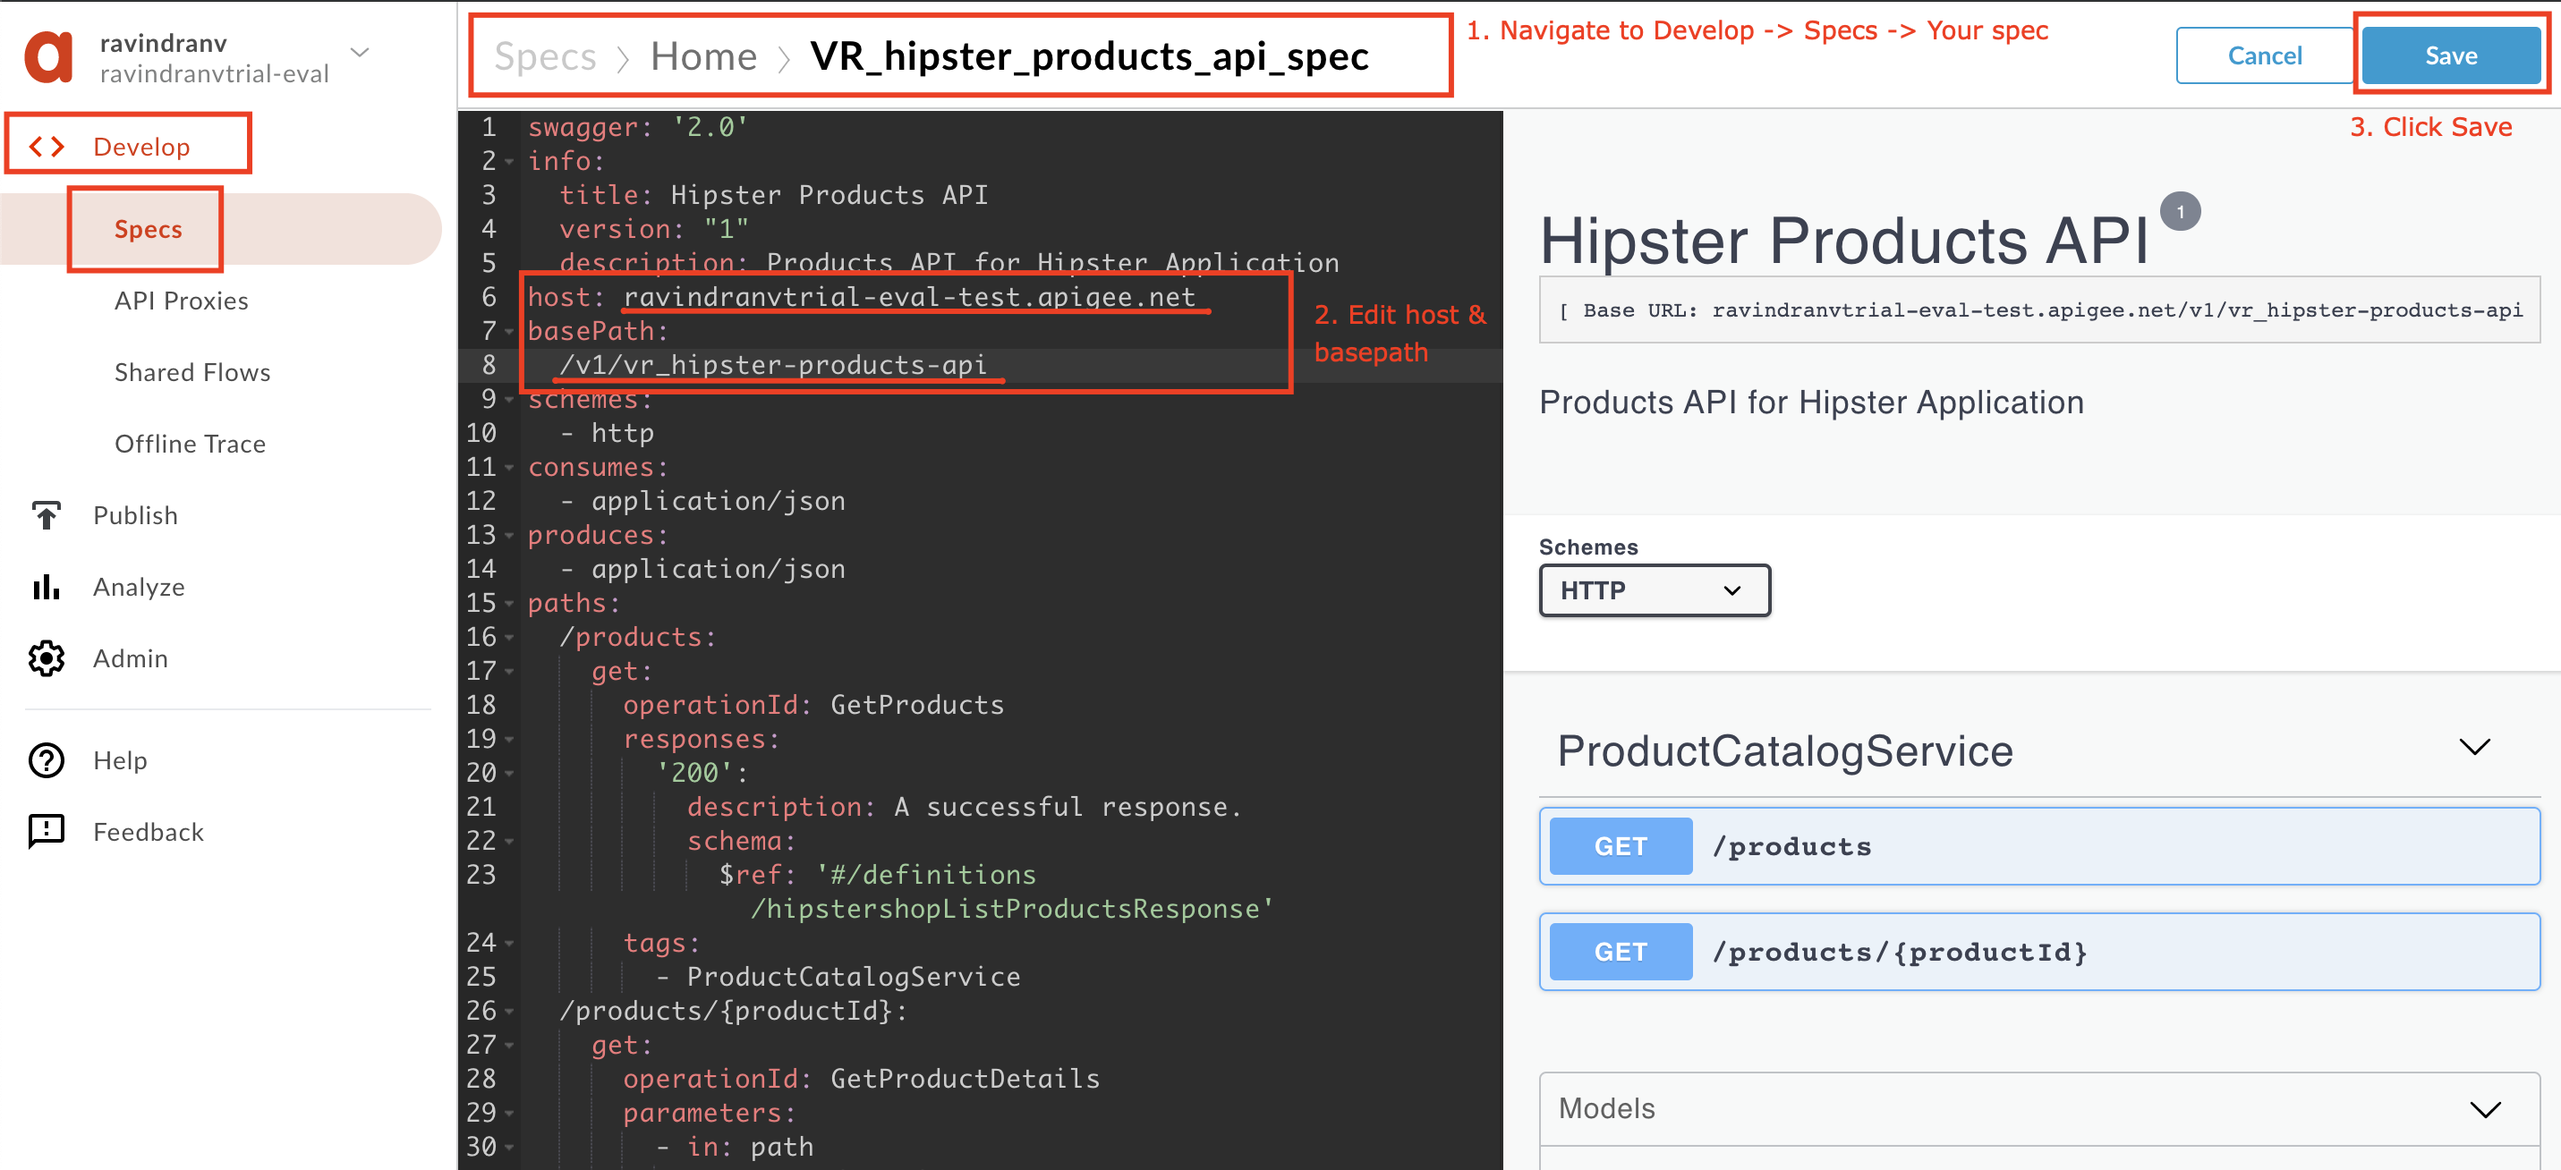
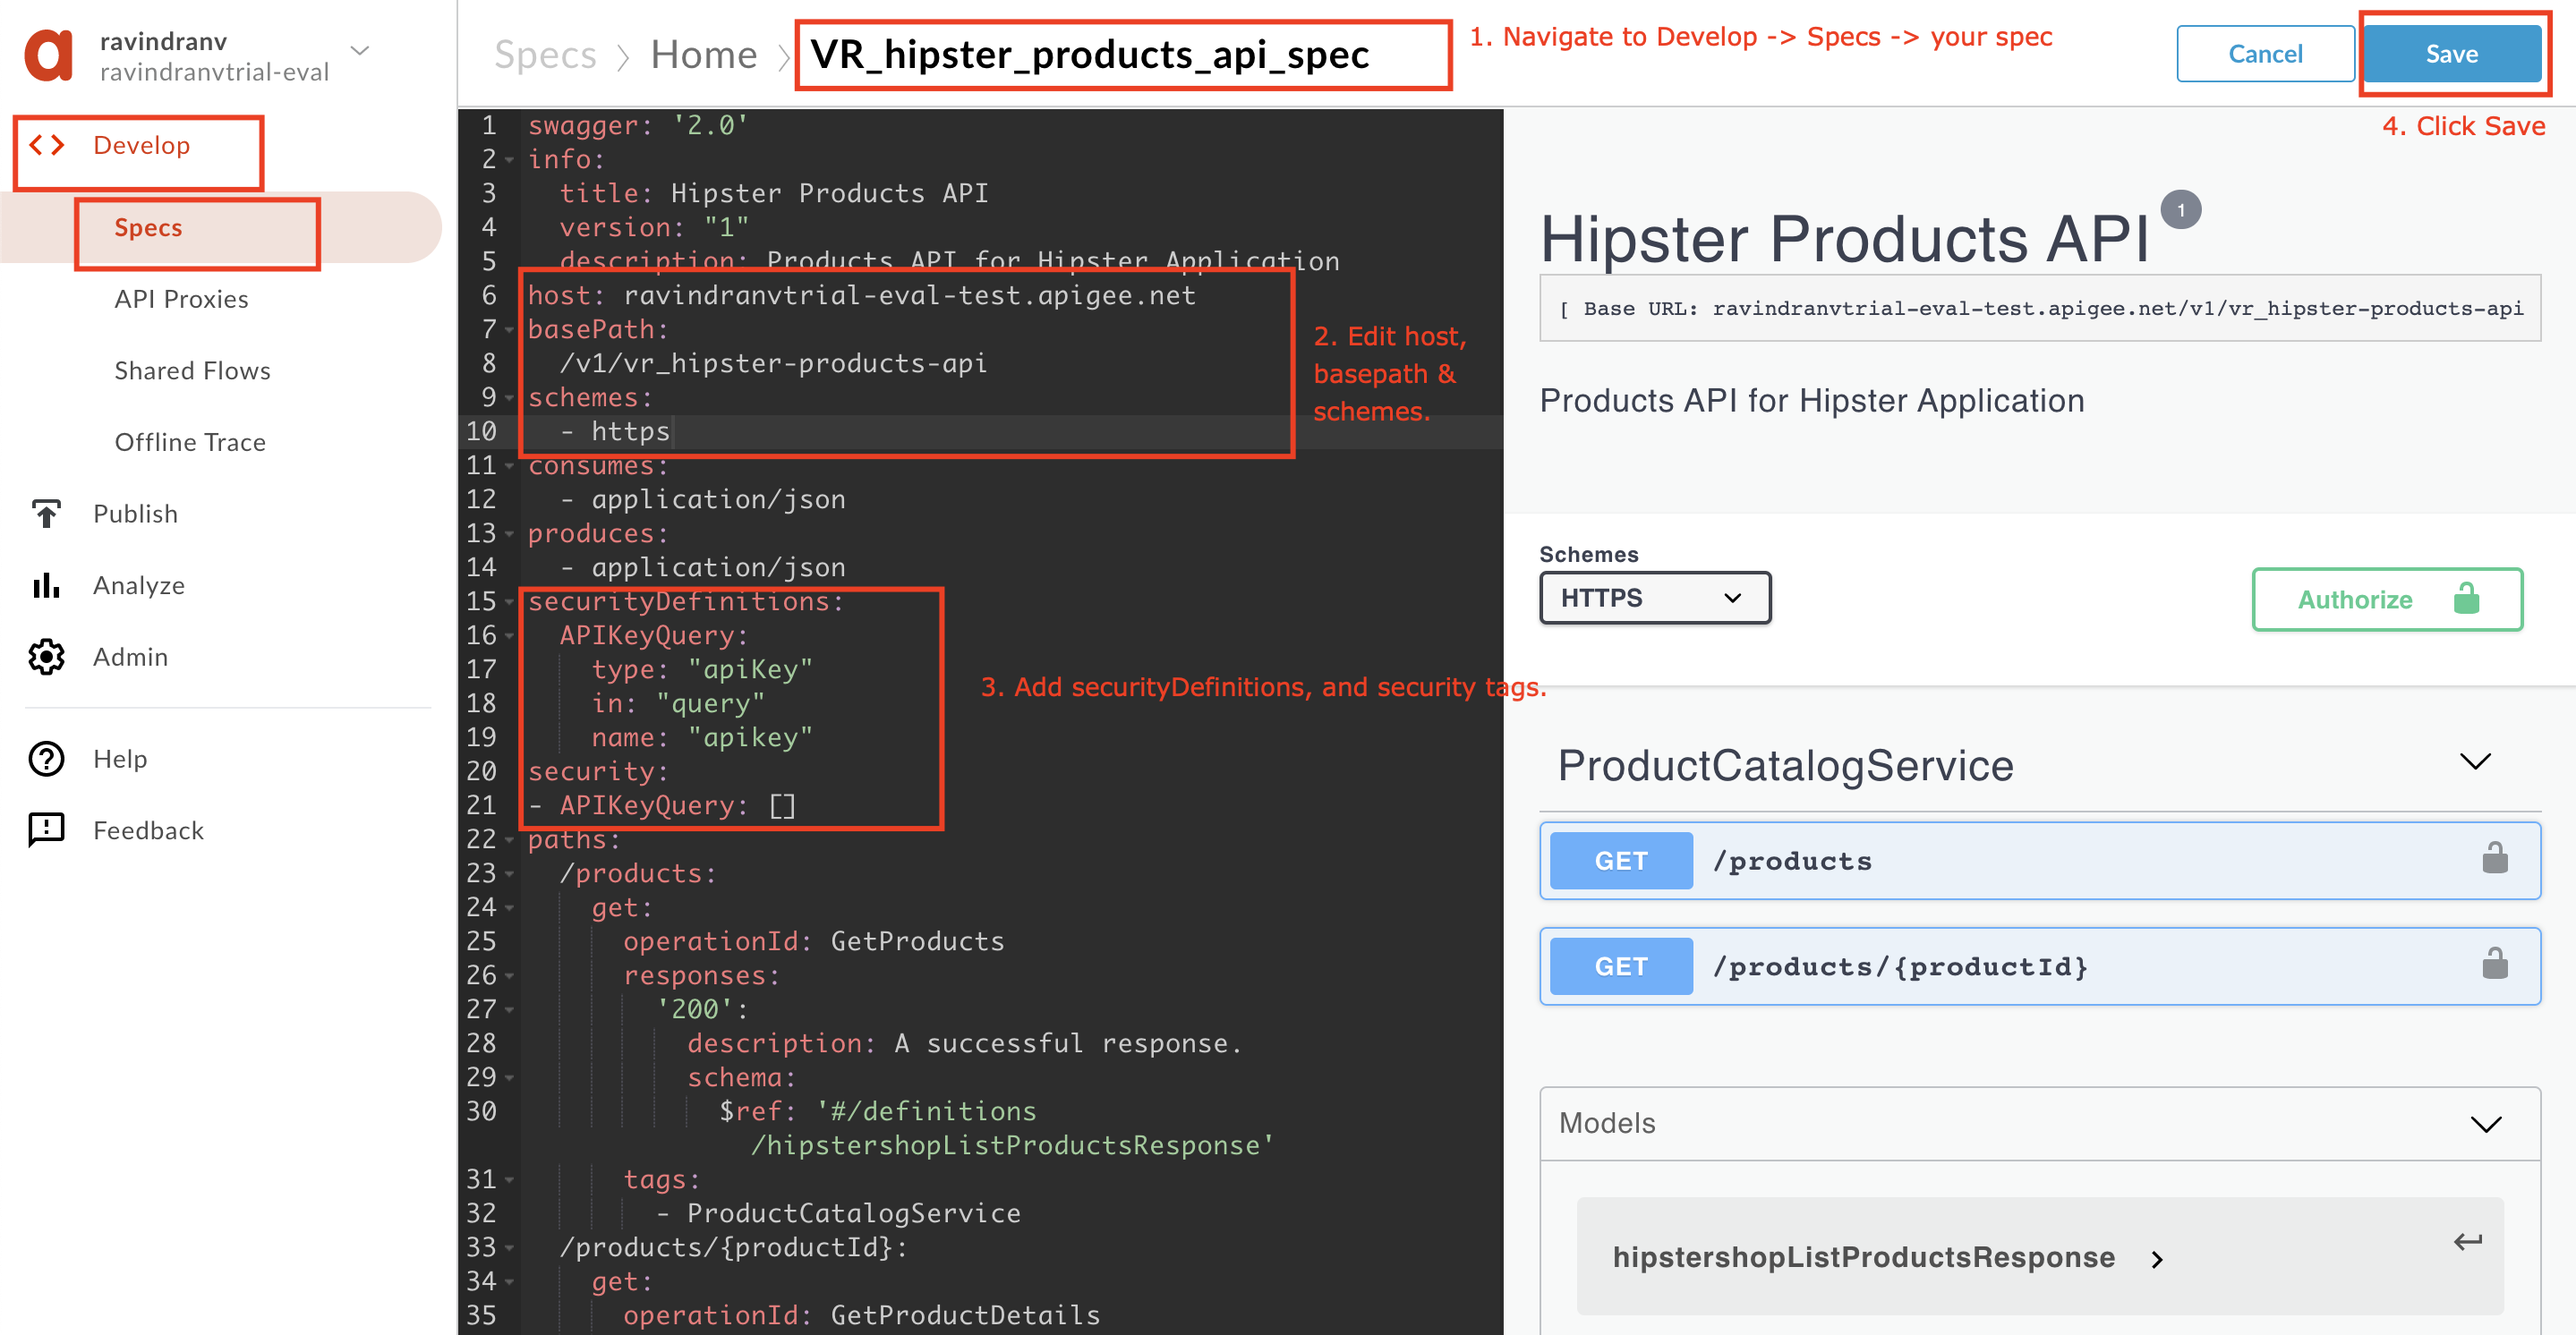
Changes to Lab 4

diff --git a/Module-1/Labs/Lab 4/README.md b/Module-1/Labs/Lab 4/README.md
@@ -43,9 +43,19 @@ You will need…
 
 ## Update the Open API Spec
 
-In order to ensure that we have an updated OpenAPI Spec that accurately describes the API endpoint exposed through our API Proxy, we must first modify the spec - specifically the `host` and `basepath` properties. To do this, navigate to **Develop → Specs** on the main menu, select the spec that we previously imported in Lab 1, and modify the the `host` and `basepath` properties to reflect the host and basepath of the proxy. Change them to:
-* `host: {{your API proxy host}}`  _<--- In Apigee Trial orgs this will be {{your org}}-{{environment}}.apigee.net_
-* `basepth: /v1/{{your initials}}_hipster-products-api`
+In order to ensure that we have an updated OpenAPI Spec that accurately describes the API endpoint exposed through our API Proxy, we must first modify the spec - specifically the `host`, `basepath`, `securityDefinitions` and `security` properties. To do this, navigate to **Develop → Specs** on the main menu, select the spec that we previously imported in Lab 1, and modify the the `host`, `basepath`, `securityDefinitions` and `security` properties as shown below:
+
+    `host: {{your API proxy host}}`  _<--- In Apigee Trial orgs this will be {{your org}}-{{environment}}.apigee.net_
+    `basepth: /v1/{{your initials}}_hipster-products-api`
+    ```
+        securityDefinitions:
+            APIKeyQuery:
+                type: "apiKey"
+                in: "query"
+                name: "apikey"
+        security:
+        - APIKeyQuery: []
+    ```
 
 ![image alt text](./media/EditSpec.png)
 
@@ -93,15 +103,83 @@ In order to ensure that we have an updated OpenAPI Spec that accurately describe
 
 7. Then select **External Image** and provide the following URL to import image.
 
-`Image URL: `
+`Image URL: https://raw.githubusercontent.com/aliceinapiland/apijam/master/Module-1/Labs/Lab%204/media/HipsterAPIProductImage.png`
 
+![image alt text](./media/image_9c.png)
 
+8. Click **Finish**.
 
-* You should now see your new API Product published to the portal.
+![image alt text](./media/image_9d.png)
 
-* Click the **Live Portal** link to launch a browser tab/window with the new Developer Portal.
+The API product is now published to the developer portal.
+
+## App Developer sign-up
+
+1. Click the **Live Portal** link to launch a browser tab/window with the new Developer Portal.
 
 ![image alt text](./media/image_10.png)
+
+2. On the developer portal, click the main menu option labeled **Sign In**. This will take you to the App Developer login page. Here, click **Create Account**.
+
+![image alt text](./media/SignInButton.png)
+
+![image alt text](./media/CreateAccountLink.png)
+
+3. Provide the following details, and then click **Create Account**.
+
+    ```
+    First Name: {{your first name}}
+    Last Name: {{your last name}}
+    Email: {{your email address}}
+    Password: {{enter a password}}
+    Check the "I agree to terms." box
+    ```
+![image alt text](./media/CreateAccountForm.png)
+
+4. On account creation, the App Developer will receive an email notification with an account verification link. 
+
+![image alt text](./media/AccountVerify1.png)
+
+Since we you have provided your own email address as the App Developer in this lab, you should have received this notification. Click the link or copy and paste it into the browser to verify the account.
+
+![image alt text](./media/AccountVerify2.png)
+
+5. Once account is verified, the App Developer can sign into the portal using their credentials.
+
+![image alt text](./media/SignInForm.png)
+
+## View API Documentation
+
+1. Log in as App Developer using the account credentials created in the previous steps. Click on the **APIs** menu link on the Developer Portal. This will take you to the API catalog page. Here' you will see that API product we previously published to be visible to all registered developers.
+
+![image alt text](./media/APICatalogFree.png)
+
+2. Click the API Product icon for the Bronze product in the catalog, to view it's documentation. This will take you to an interactive documentation page generated from the OpenAPI spec that we associated to the API product at the time of publishing.
+
+![image alt text](./media/FreeProductDocsPage.png)
+
+3. To test the API, first click on the **Authorize** button to provide a valid API Key.
+Provide one of the API Keys you obtained from the previous labs to authorize test calls to the API.
+
+![image alt text](./media/AuthorizeInDocs.png)
+
+![image alt text](./media/AuthorizeInDocsOk.png)
+
+4. Select one of the API resource paths from the left pannel of the docs and click **Execute**. You will then see the response in the right pannel.
+
+## Enable Audience and Teams features
+
+1. To utilize Audience and Teams features, you must first enroll into the Beta program within Edge. To do this, navigate to the **Publish -> Developer Programs** menu on the Edge UI, and select the developer program associated with your developer portal.
+
+![image alt text](./media/SelectDevProgram.png)
+
+2. Click the **Enroll** button to "Enroll in beta for team and audience management".
+
+![image alt text](./media/EnrollBtn.png)
+
+## Create Developer Team
+
+2. Ensure that you are logged into the Developer Portal with your App Developer credentials. Navigate to the **Teams** menu from your account drop-down.
 
 * In the Portal UI, click **APIs** to view the products that have been published. Products are used to bundle APIs together so that a developer can request access to a set of related functionality without registering for each API.  They are also useful for managing access to, and quotas for, particular developers.  For more on API products, [read this document](https://docs.apigee.com/api-platform/publish/what-api-product).
 
